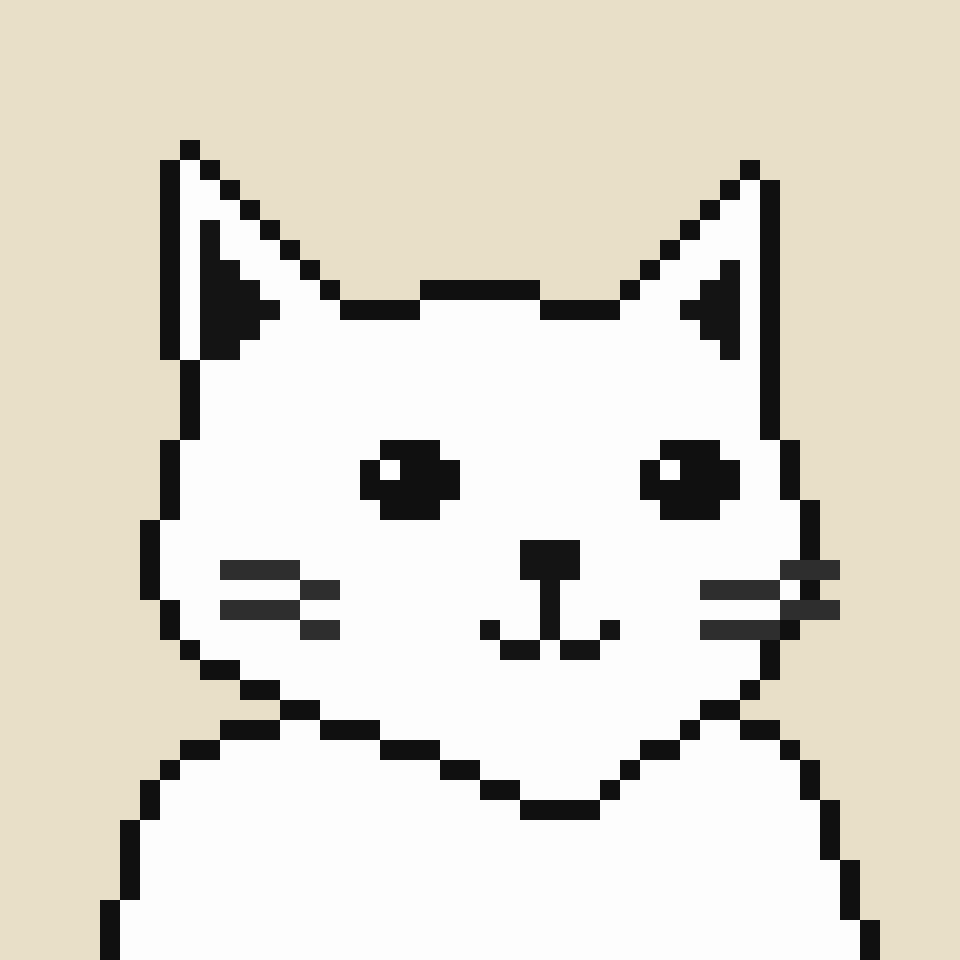
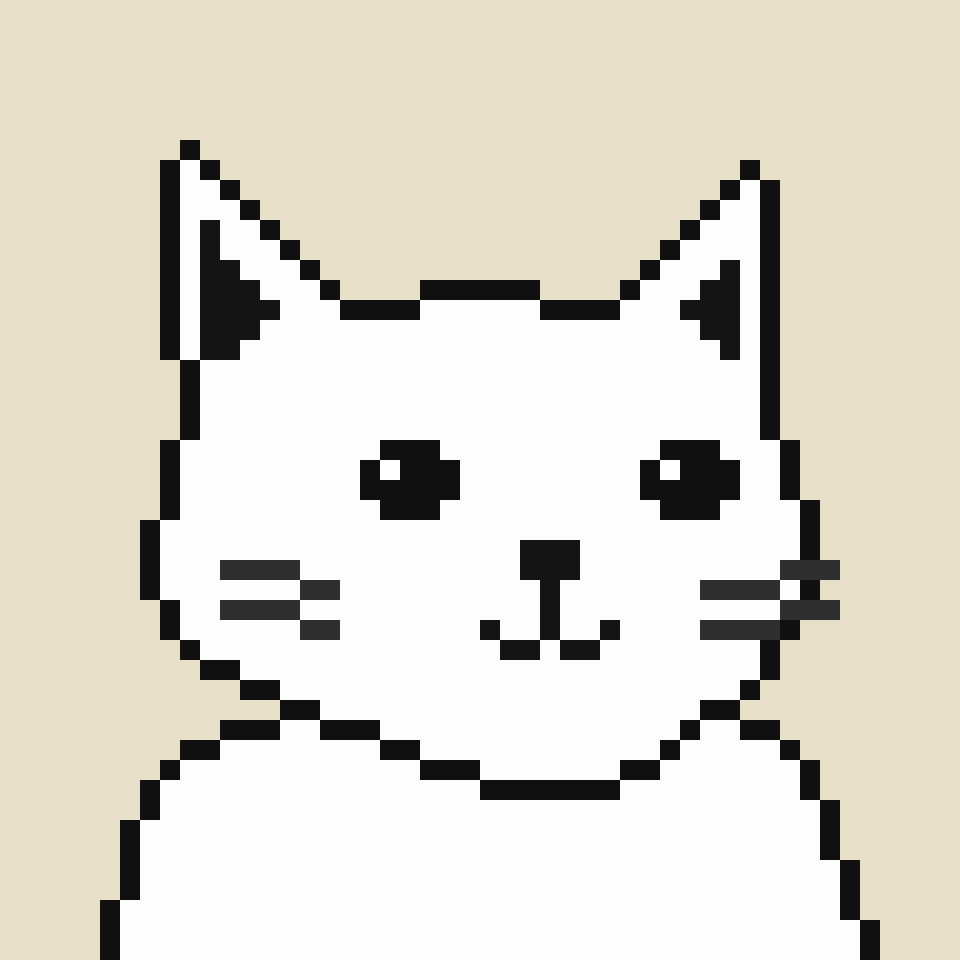
Close the chin a row higher
The jaw ran one row past where the reference's does and converged to a
four-pixel tip, which is what made it read as pointed. It now finishes at
the row the trace finishes at, with row 37 giving up a column each side so
the taper still has somewhere to go and does not just stop flat.

Changed region(s): [[0.5312, 0.8125, 0.625, 0.875], [0.6562, 0.75, 0.6875, 0.8125], [0.4375, 0.75, 0.4688, 0.8125]]

diff --git a/packages/hyper-identicons/src/art/data/clothing.ts b/packages/hyper-identicons/src/art/data/clothing.ts
@@ -1,10 +1,10 @@
 // Generated by scripts/build-art.ts from art-source/clothing. Do not edit.
 export const clothing: Record<string, string> = {
[12 lines of base64/hex data omitted]
   "none": 'AAABAQEA',
 };

diff --git a/packages/hyper-identicons/src/art/data/body.ts b/packages/hyper-identicons/src/art/data/body.ts
@@ -1,4 +1,4 @@
 // Generated by scripts/build-art.ts from art-source/body. Do not edit.
 export const body: Record<string, string> = {
[2 lines of base64/hex data omitted]
 };

diff --git a/tools/make-body.py b/tools/make-body.py
@@ -52,16 +52,19 @@ CROWN = {13: (21, 26), 14: (18, 30), 15: (15, 32), 16: (11, 34)}
 # The face. Rows 21-27 sit behind the sunglasses in the reference, so their
 # edges are interpolated between the brow at row 20 and the cheek at row 26.
 # The near side runs a column tighter than the trace: at full width the reference
-# reads as too much cheek on the near side. The chin tip at rows 38-39 is left
-# alone so it stays under the muzzle, which puts the whole column of slack into
-# the jaw between rows 36 and 38.
+# reads as too much cheek on the near side.
+#
+# The chin closes at row 38, where the reference's does. Carrying it one row
+# further, as it used to, made the jaw converge to a point; stopping it there
+# instead leaves it flat and wide. Row 37 gives up a column each side so the
+# taper is gentle enough to finish in the row it has.
 HEAD = {
     17: (9, 38), 18: (9, 38), 19: (9, 38), 20: (9, 38),
     21: (8, 39), 22: (8, 39), 23: (8, 39), 24: (8, 40),
     25: (7, 40), 26: (7, 40), 27: (7, 40), 28: (7, 40),
     29: (8, 40), 30: (8, 39), 31: (9, 38), 32: (10, 38),
     33: (12, 37), 34: (14, 36), 35: (16, 34), 36: (19, 33),
-    37: (22, 31), 38: (24, 30), 39: (26, 29),
+    37: (21, 32), 38: (24, 30),
 }
 
 # Both inner ears hug the outer edge of their ear, as in the reference.
